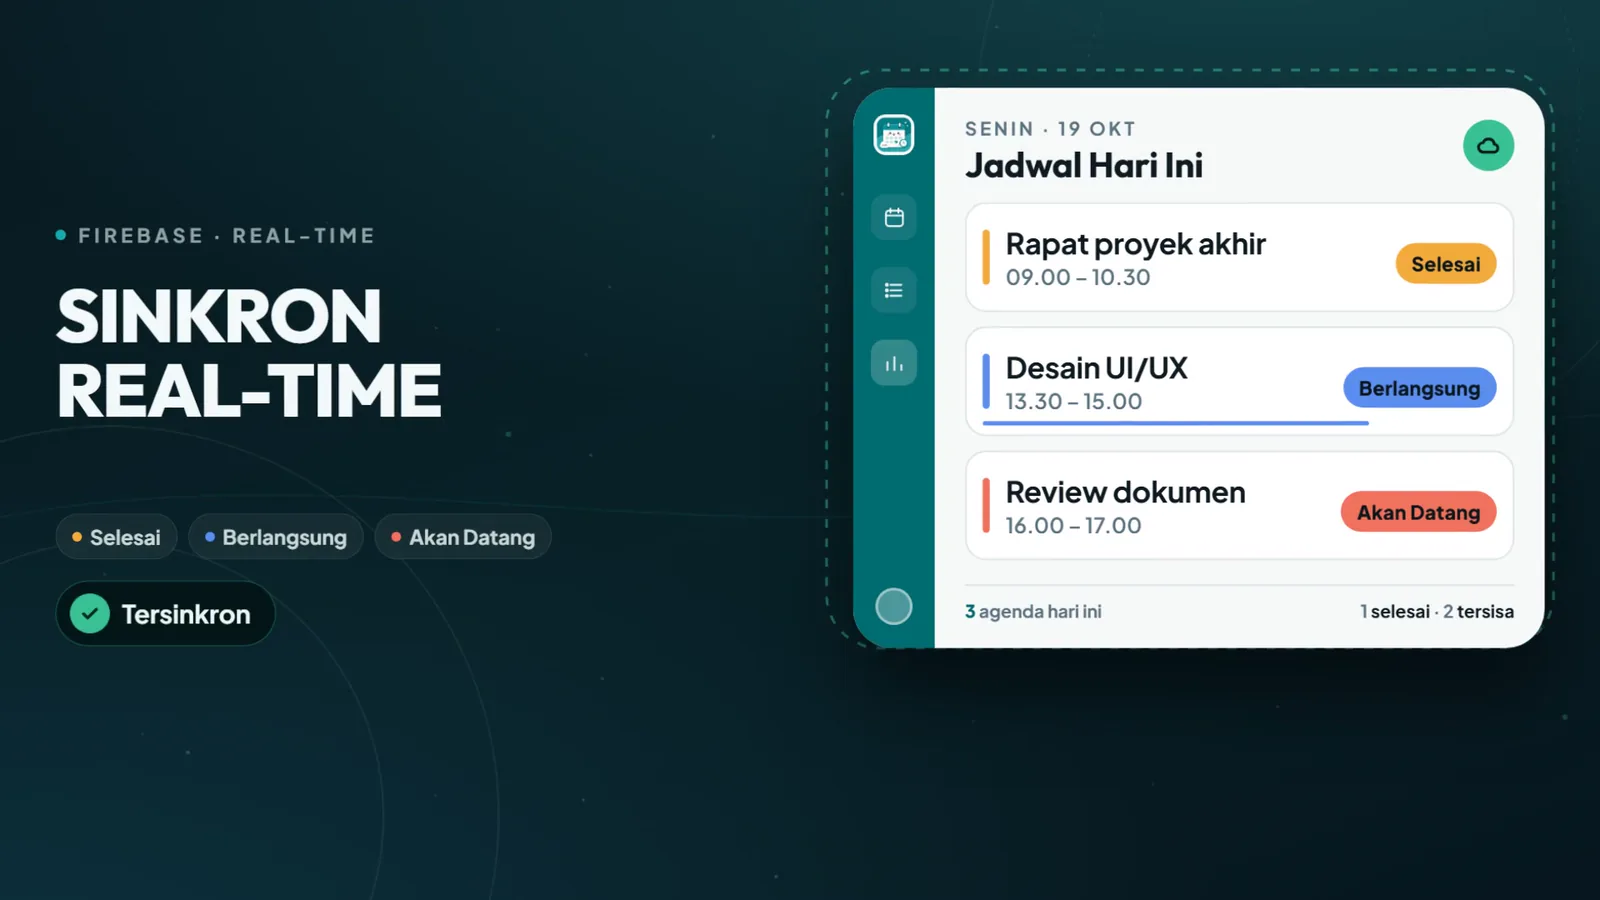
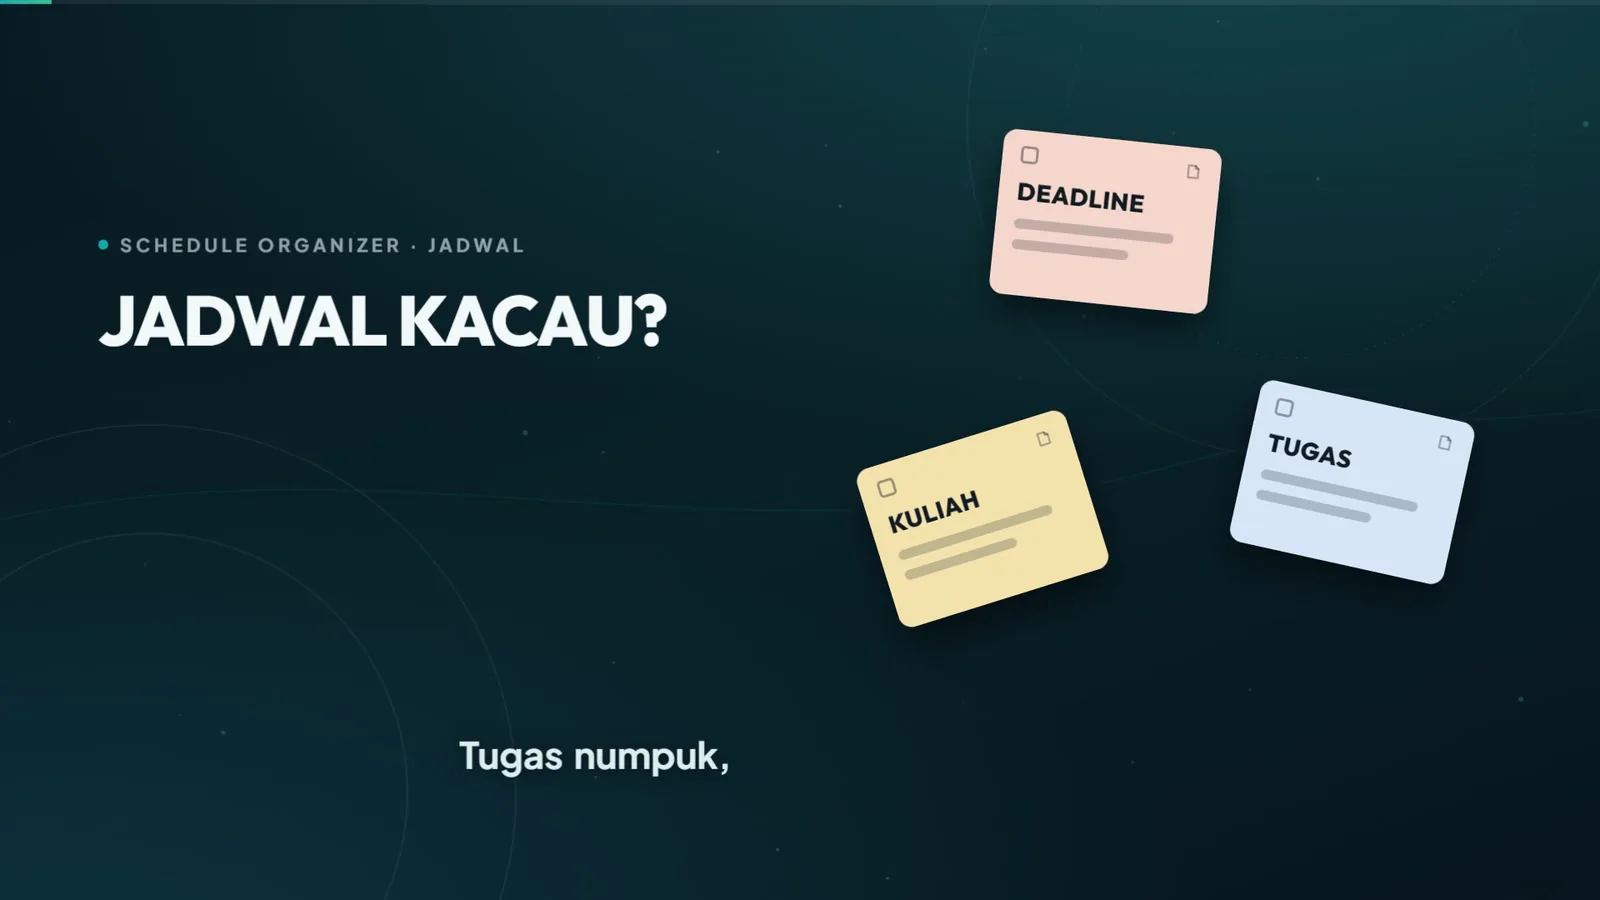
fix(security): swap poster ke frame lebih terang + rotasi Firebase API key

diff --git a/refactorFirebase.js b/refactorFirebase.js
@@ -8,7 +8,7 @@ const firebaseInit = `
 // FIREBASE INITIALIZATION
 // ==========================================
 const firebaseConfig = {
-  apiKey: "AIzaSyCPVSU0OANv9kvMDF0fh3_Y-5_utT82iHE",
+  apiKey: "AIzaSyDDXyzABC123DEF456GHI789JKL012MNO",
   authDomain: "schedule-organizer-3a878.firebaseapp.com",
   projectId: "schedule-organizer-3a878",
   storageBucket: "schedule-organizer-3a878.firebasestorage.app",
